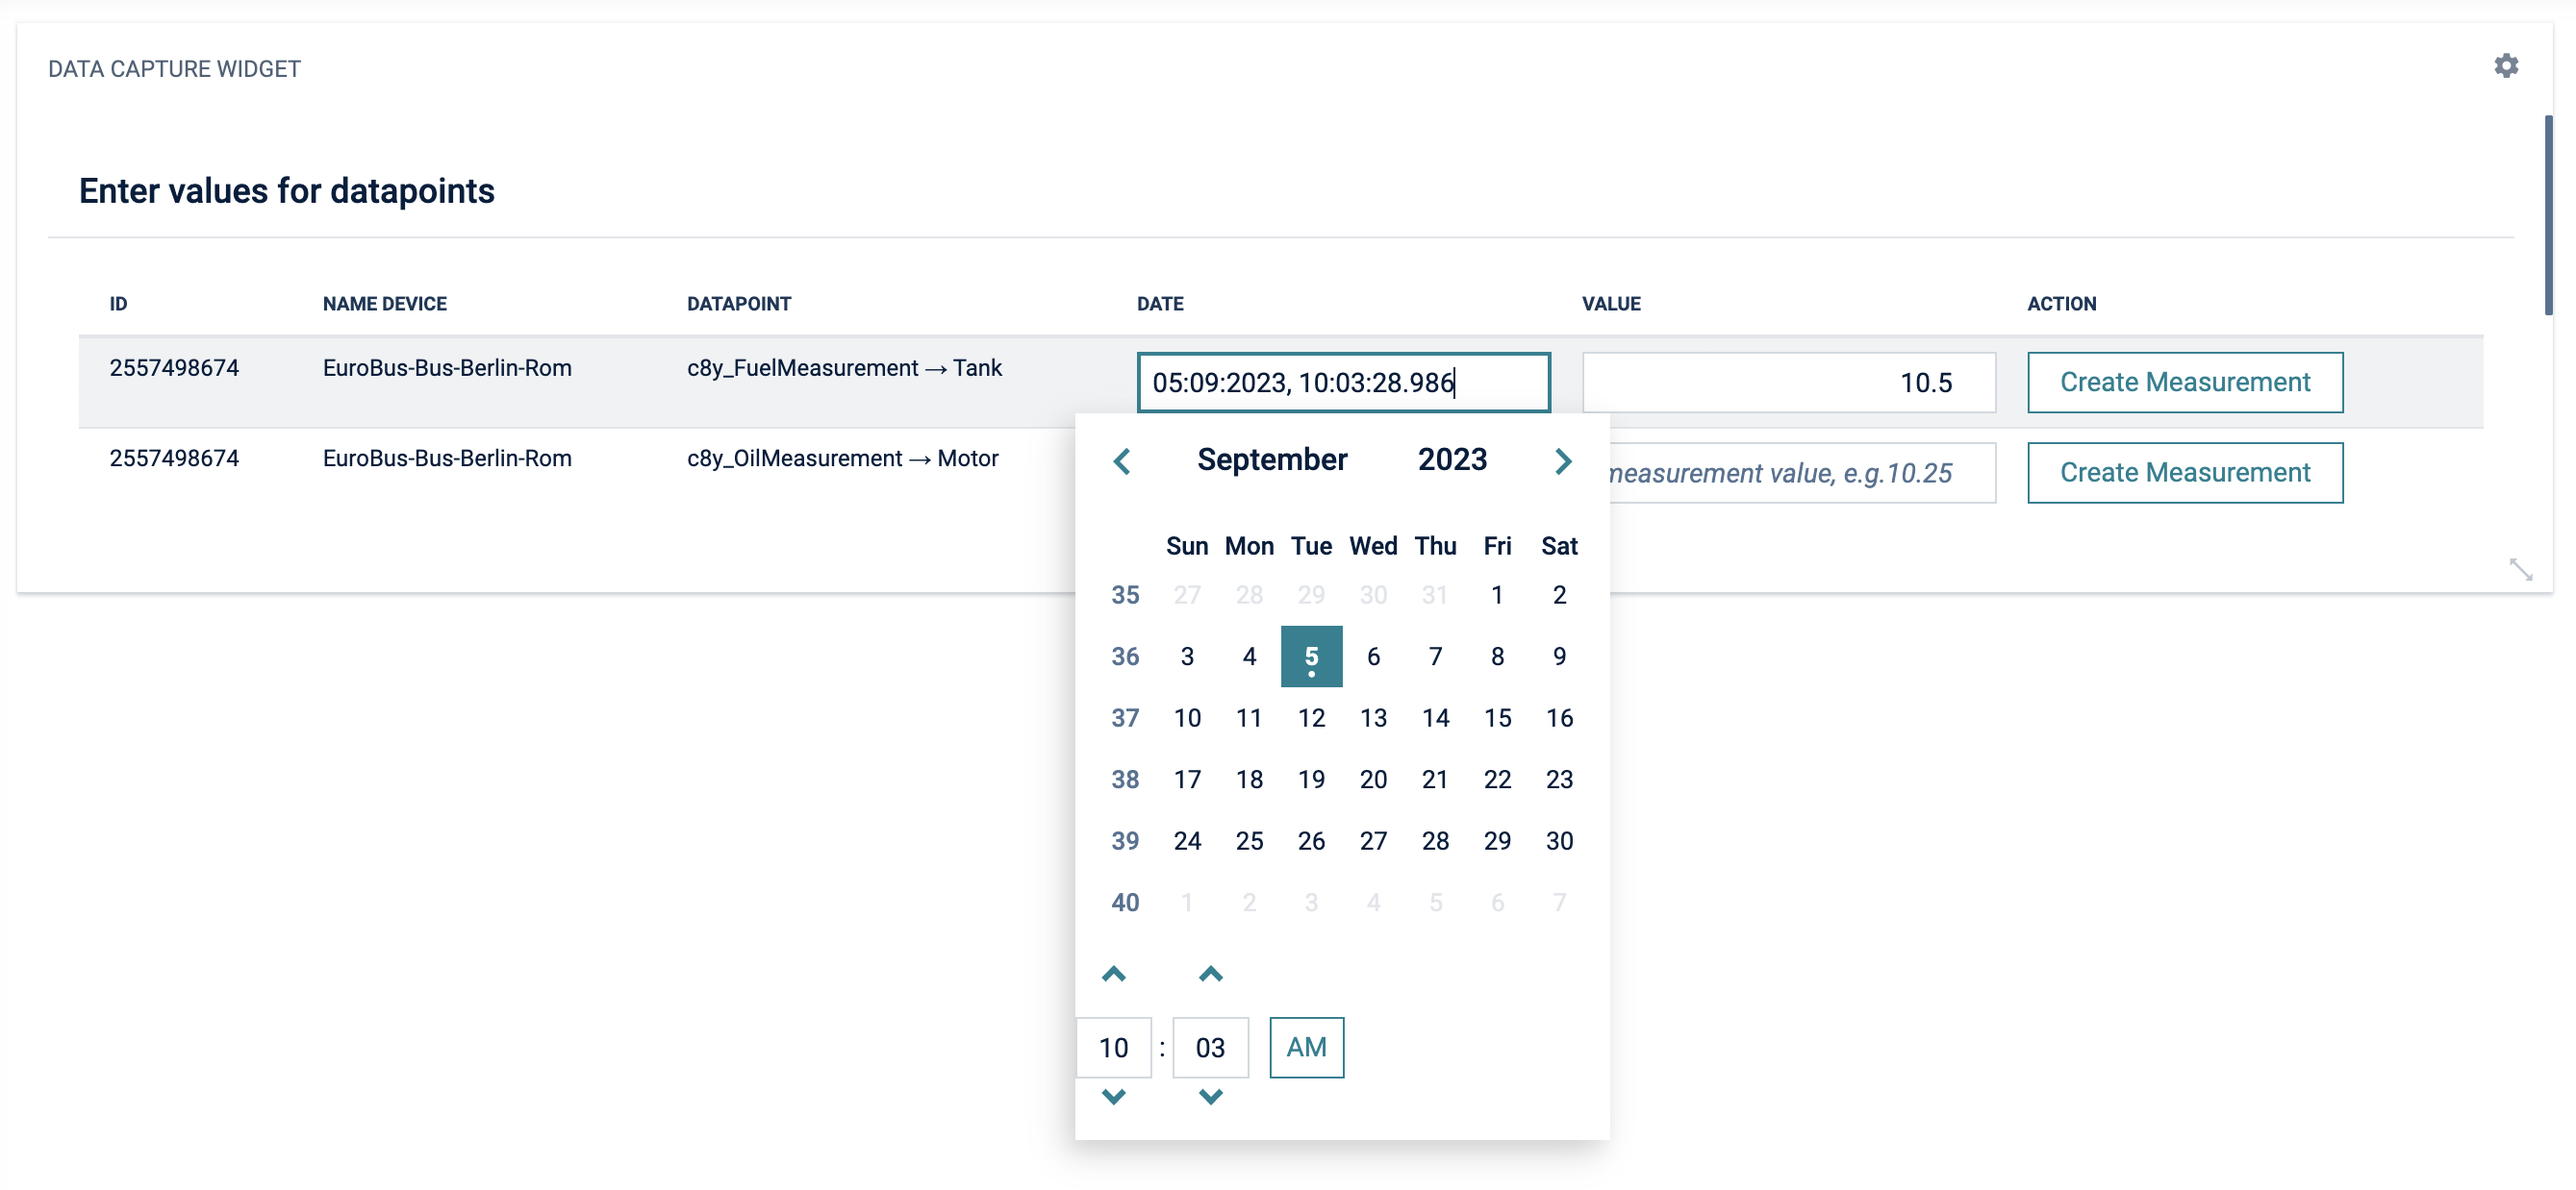
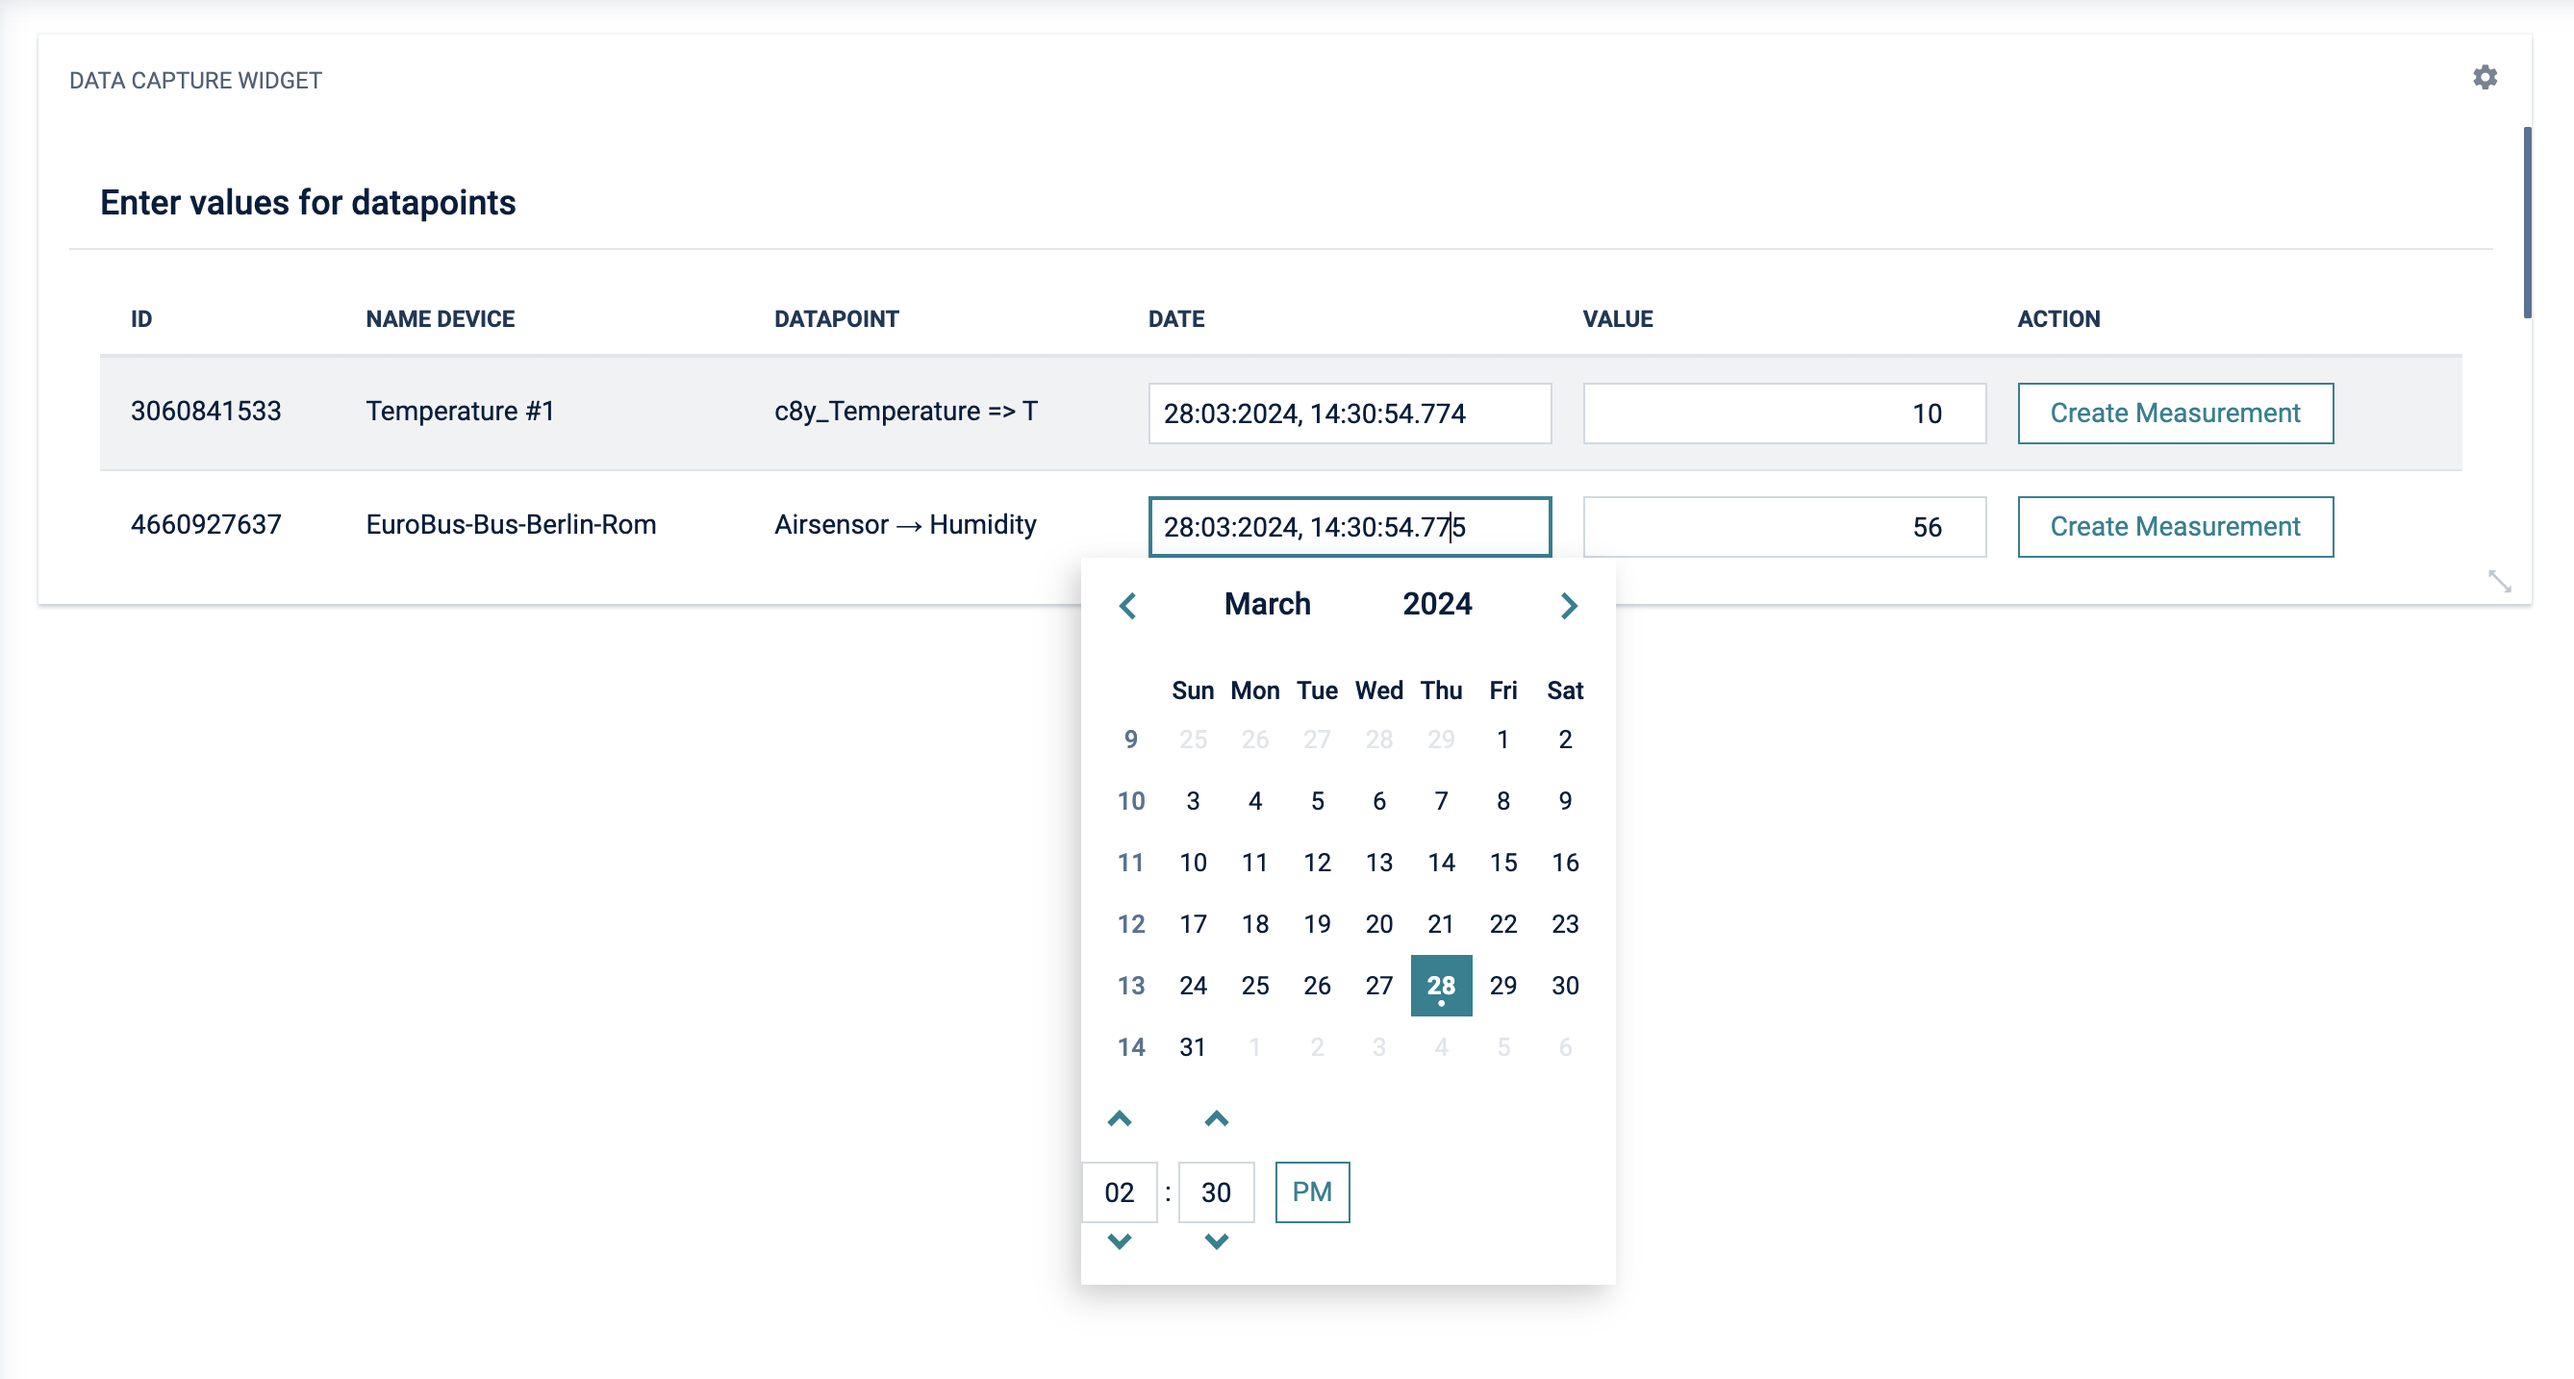
migrate to new version 1018

diff --git a/widget/widget-datacapture.component.ts b/widget/widget-datacapture.component.ts
@@ -1,19 +1,12 @@
 import { Component, Input, OnInit } from "@angular/core";
-import {
-
-  IMeasurementCreate,
-  IUser,
-  InventoryService,
-  MeasurementService,
-} from "@c8y/client";
+import { IMeasurementCreate, IUser, MeasurementService } from "@c8y/client";
 import { BehaviorSubject } from "rxjs";
 import { AlertService, AppStateService } from "@c8y/ngx-components";
 
 @Component({
   selector: "c8y-widget-datacapture",
-  templateUrl: "widget-datacapture.html",
-  styleUrls: [
-    "./widget-datacapture.component.css"],
+  templateUrl: "widget-datacapture.component.html",
+  styleUrls: ["./widget-datacapture.component.css"],
 })
 export class DataCaptureWidgetComponent implements OnInit {
   @Input() config;
@@ -23,7 +16,6 @@ export class DataCaptureWidgetComponent implements OnInit {
   user: string;
 
   constructor(
-    private inventory: InventoryService,
     private measurement: MeasurementService,
     private alert: AlertService,
     private app: AppStateService
@@ -36,6 +28,10 @@ export class DataCaptureWidgetComponent implements OnInit {
       //console.log("User", u);
       this.user = u.userName;
     });
+    for (let index = 0; index < this.config["datapoints"].length; index++) {
+      this.dates.push(new Date());
+      // this.values.push(0);
+    }
   }
 
   async onSubmit(index: number) {
@@ -46,13 +42,15 @@ export class DataCaptureWidgetComponent implements OnInit {
       this.dates,
       this.config.datapoints[index]
     );
-    const time  = this.dates[index]?this.dates[index]  : new Date().toISOString();
+    const time = this.dates[index]
+      ? this.dates[index]
+      : new Date().toISOString();
     const m: Partial<IMeasurementCreate> = {
-      source :{
-        id:this.config.datapoints[index].__target.id,
+      source: {
+        id: this.config.datapoints[index].__target.id,
       },
-      type : this.config.datapoints[index].fragment,
-      time: time
+      type: this.config.datapoints[index].fragment,
+      time: time,
     };
     if (this.config.addAudit) {
       m.user = this.user;
@@ -73,7 +71,7 @@ export class DataCaptureWidgetComponent implements OnInit {
     }
     */
     console.log("New entry:", m);
-    const {res, data} = await this.measurement.create(m);
+    const { res, data } = await this.measurement.create(m);
     this.alert.success(`New measurement: ${data.id}`);
   }
 }

diff --git a/widget/widget-datacapture.component.html b/widget/widget-datacapture.component.html
@@ -5,7 +5,7 @@
     </div>
 
     <div class="card-block">
-      <table class="table table-condensed table-striped">
+      <table class="table table-striped">
         <thead>
           <tr>
             <th>{{ "ID" | translate }}</th>
@@ -19,9 +19,9 @@
         <tbody>
           <tr *ngFor="let d of config.datapoints; let i = index">
             <!-- <form> -->
-              <td>{{d.__target.id}}</td>
-              <td>{{d.__target.name}}</td>
-              <td>{{d.label}}</td>
+              <td class="p-t-18">{{d.__target.id}}</td>
+              <td class="p-t-18">{{d.__target.name}}</td>
+              <td class="p-t-18">{{d.label}}</td>
               <td>
                 <input
                   class="form-control"

diff --git a/widget/widget-datacapture.module.ts b/widget/widget-datacapture.module.ts
@@ -25,7 +25,7 @@ import { TranslateModule } from "@ngx-translate/core";
   providers: [
     BsDatepickerConfig,
     hookComponent({
-      id: "angular.widget.plugin",
+      id: "datacapture.widget",
       label: gettext("Data capture widget"),
       description: gettext("Widget added data capture"),
       component: DataCaptureWidgetComponent,

diff --git a/widget/widget-datacapture.component.css b/widget/widget-datacapture.component.css
@@ -2,3 +2,6 @@
   transform: scaleX(-1);
   font-size: 3em;
 }
+.p-t-18 {
+  padding-top: 18px;
+}

diff --git a/README.md b/README.md
@@ -1,7 +1,12 @@
 # Cumulocity widget plugin
 
-This is the Cumulocity data capture widget. For a set of configured datapoint measurements can be manually created.
-The configuration page allows to select the data points and if audit information about the user should be added to the measurements.
+This is a Cumulocity widget for data capturing. For a set of configured data points measurements can be manually created.
+The configuration page allows to select the data points and if audit information about the user should be added to the audit log.
+
+<p align="center">
+<img src="assets/widget-datacapture-pr.png"  style="width: 70%;" />
+</p>
+<br/>
 
 ----------
 These tools are provided as-is and without warranty or support. They do not constitute part of the Software AG product suite. Users are free to use, fork and modify them, subject to the license agreement. While Software AG welcomes contributions, we cannot guarantee to include every contribution in the master project.
